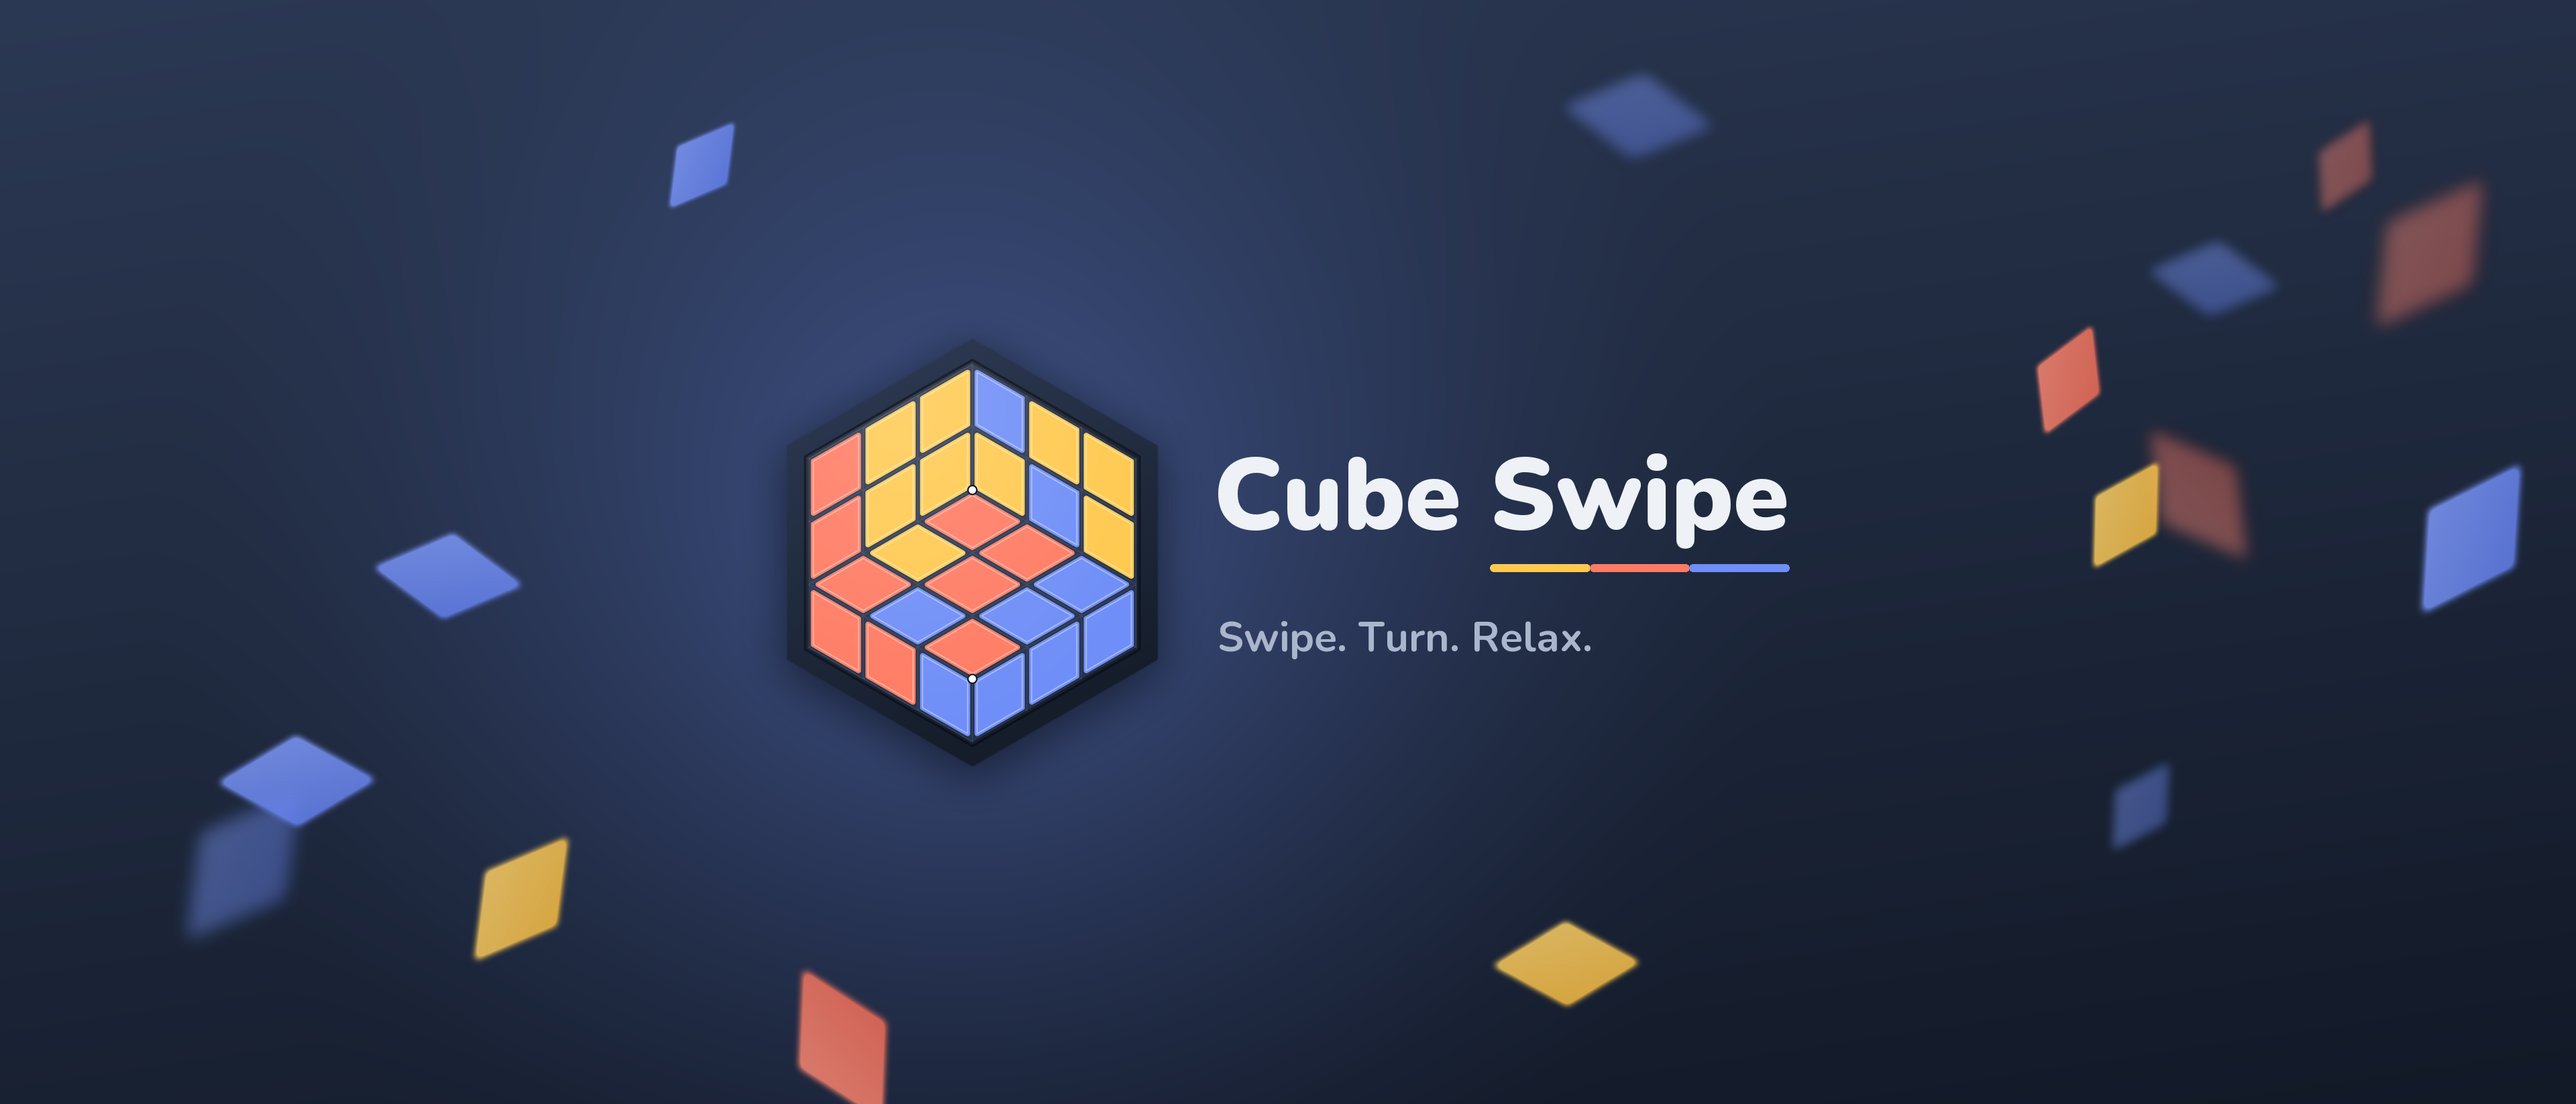
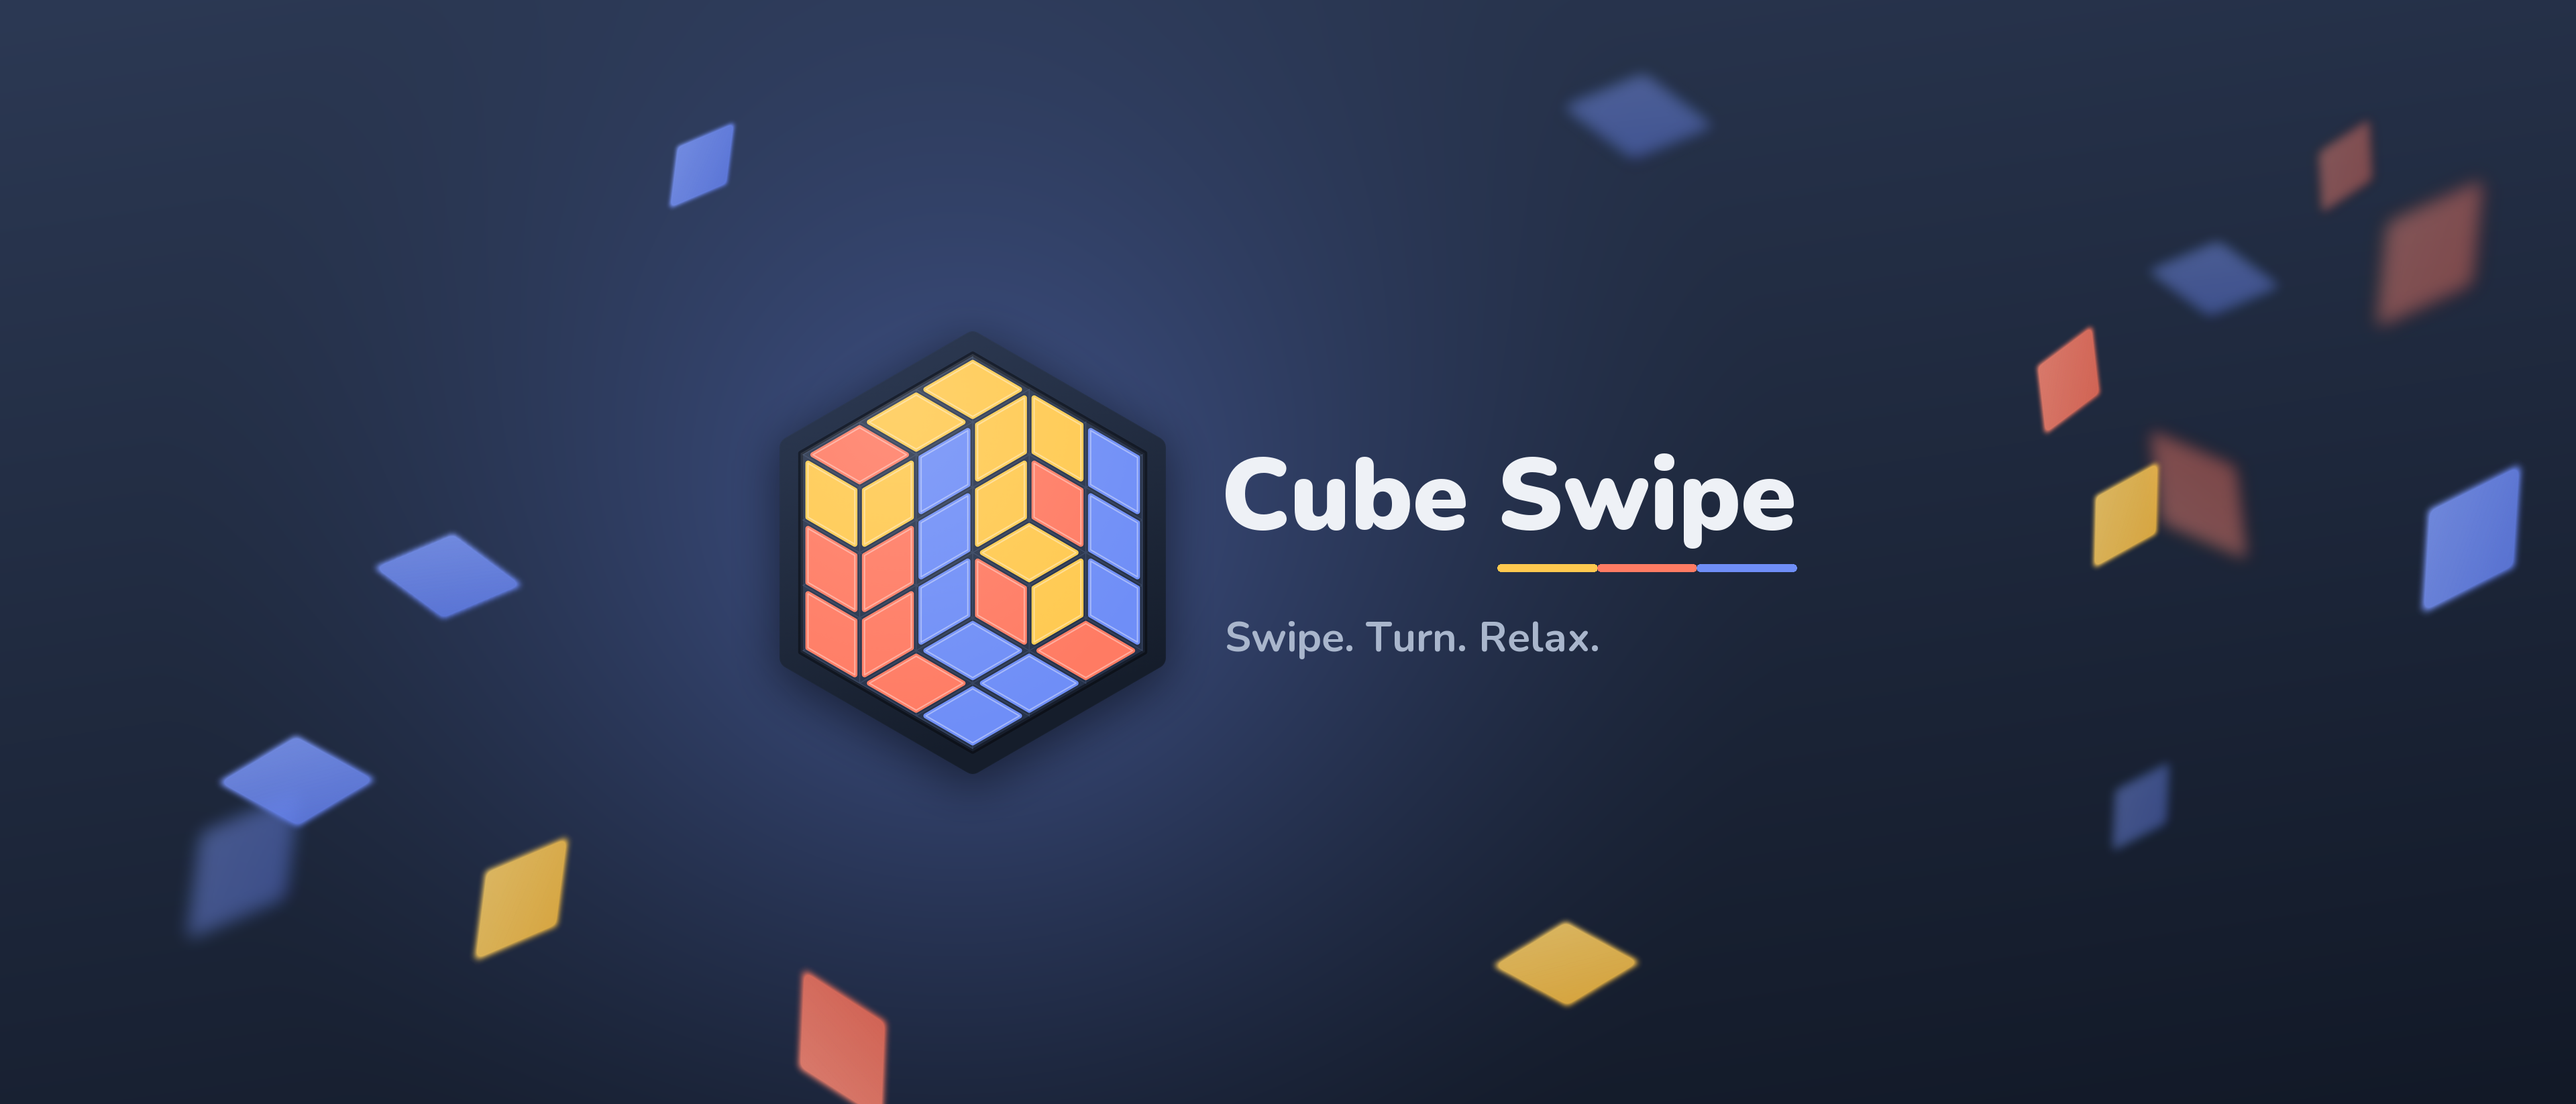
App Store creatives: HD board rendered from the game's SVG (no pivot dots or hint arrow)

Changed region(s): [[0.3125, 0.3098, 0.7188, 0.7126]]

diff --git a/app/store/tools/render-board.js b/app/store/tools/render-board.js
@@ -1,0 +1,65 @@
+// Renderiza el tablero 3x3x3 del juego en alta resolución (PNG con fondo transparente),
+// sin los puntos de giro ni la pista. Uso: node render-board.js <salida-dir>
+const puppeteer = require("puppeteer-core");
+const path = require("path");
+const out = process.argv[2];
+
+(async () => {
+  const browser = await puppeteer.launch({
+    executablePath: "/Applications/Google Chrome.app/Contents/MacOS/Google Chrome",
+    headless: true,
+  });
+  const page = await browser.newPage();
+  await page.emulateMediaFeatures([{ name: "prefers-color-scheme", value: "dark" }]);
+  await page.setViewport({ width: 390, height: 844, deviceScaleFactor: 7, isMobile: true, hasTouch: true });
+  await page.evaluateOnNewDocument(() => {
+    try { sessionStorage.setItem("propp-skip-intro", "home"); } catch (e) {}
+    try { localStorage.setItem("propp-settings-v1", JSON.stringify({ lang: "en", theme: "dark", vibe: true, intro: false })); } catch (e) {}
+  });
+  await page.goto("http://localhost:8792/index.html", { waitUntil: "load" });
+  await new Promise((r) => setTimeout(r, 1500));
+
+  const clickText = (re) => page.evaluate((src) => {
+    const rx = new RegExp(src);
+    const b = [...document.querySelectorAll("button")].find((x) => rx.test(x.textContent) && x.offsetParent !== null);
+    if (b) b.click();
+    return !!b;
+  }, re.source);
+
+  for (let i = 0; i < 2; i++) {
+    if (i === 0) {
+      console.log("free play", await clickText(/^\s*Free play/));
+      await new Promise((r) => setTimeout(r, 700));
+      console.log("3x3", await clickText(/^\s*3×3×3\s*$/));
+      await new Promise((r) => setTimeout(r, 300));
+      console.log("medium", await clickText(/^\s*Medium/));
+    } else {
+      console.log("new", await clickText(/^\s*\+?\s*New\s*$/));
+      await new Promise((r) => setTimeout(r, 700));
+      const again = await clickText(/^\s*Medium/);
+      console.log("medium again", again);
+    }
+    await new Promise((r) => setTimeout(r, 3500));
+    const ok = await page.evaluate(() => {
+      const b = document.getElementById("board");
+      if (!b) return "no board";
+      ["dots", "hits", "hint", "hlg", "lift"].forEach((id) => { const g = b.querySelector("#" + id); if (g) g.style.display = "none"; });
+      document.documentElement.style.background = "transparent";
+      document.body.style.background = "transparent";
+      document.querySelectorAll("body *").forEach((n) => { if (!n.contains(b) && !b.contains(n)) n.style.visibility = "hidden"; });
+      let p = b; while (p) { if (p.style) { p.style.background = "transparent"; p.style.visibility = "visible"; } p = p.parentElement; }
+      b.querySelectorAll("*").forEach((n) => (n.style.visibility = "visible"));
+      return b.querySelectorAll("#tiles > *").length;
+    });
+    console.log("tiles", ok);
+    const el = await page.$("#board");
+    await el.screenshot({ path: path.join(out, `board-${i + 1}.png`), omitBackground: true });
+    // regresar la interfaz a visible para el siguiente
+    await page.evaluate(() => {
+      const b = document.getElementById("board");
+      document.querySelectorAll("body *").forEach((n) => (n.style.visibility = ""));
+      ["dots", "hits", "hint", "hlg", "lift"].forEach((id) => { const g = b.querySelector("#" + id); if (g) g.style.display = ""; });
+    });
+  }
+  await browser.close();
+})();

diff --git a/app/store/make_creatives.py b/app/store/make_creatives.py
@@ -46,23 +46,11 @@ def background(W, H, glow_xy):
 
 
 def board(src, height):
-    """Recorta el tablero (bandeja hexagonal) de una captura del simulador y lo escala."""
+    """Tablero 3x3x3 del juego en alta resolución (renderizado del SVG real del juego con Chrome,
+    sin puntos de giro ni pistas, fondo transparente) escalado a la altura pedida."""
     im = Image.open(os.path.join(HERE, "raw", src)).convert("RGBA")
-    cx, top, bot = 603, 654, 1890  # bandeja medida en la captura de 1206 x 2622
-    h = bot - top
-    w = h * math.sqrt(3) / 2
-    box = (round(cx - w / 2) - 4, top - 4, round(cx + w / 2) + 4, bot + 4)
-    crop = im.crop(box)
-    cw, ch = crop.size
-    # máscara hexagonal (punta arriba) con esquinas suaves
-    ss = 4
-    m = Image.new("L", (cw * ss, ch * ss), 0)
-    pts = [(cw / 2, 4), (cw - 4, 4 + h / 4), (cw - 4, 4 + 3 * h / 4), (cw / 2, ch - 4), (4, 4 + 3 * h / 4), (4, 4 + h / 4)]
-    ImageDraw.Draw(m).polygon([(x * ss, y * ss) for x, y in pts], fill=255)
-    m = m.filter(ImageFilter.GaussianBlur(10)).point(lambda v: 255 if v > 128 else int(v * 2)).resize((cw, ch), Image.LANCZOS)
-    crop.putalpha(m)
-    k = height / ch
-    return crop.resize((round(cw * k), round(ch * k)), Image.LANCZOS)
+    k = height / im.height
+    return im.resize((round(im.width * k), round(im.height * k)), Image.LANCZOS)
 
 
 def rhombus(kind, size, angle):
@@ -170,8 +158,8 @@ def compose(W, H, safe, board_src, board_h, title_size, tag_size, tagline, seed,
 os.makedirs(os.path.join(HERE, "creatives"), exist_ok=True)
 for lang, t in TEXT.items():
     # Header 3840 x 1646 · zona segura 1646 x 661 en (1097, 493)
-    compose(3840, 1646, (1097, 493, 1097 + 1646, 493 + 661), "02-play-dark.png", 640, 150, 62, t["header"],
+    compose(3840, 1646, (1097, 493, 1097 + 1646, 493 + 661), "board-hd-2.png", 660, 150, 62, t["header"],
             seed=7, rh_range=(150, 300), out=os.path.join(HERE, "creatives", f"header-3840x1646-{lang}.png"))
     # Search Results 3840 x 2560 · zona segura 2168 x 1030 en (836, 765)
-    compose(3840, 2560, (836, 765, 836 + 2168, 765 + 1030), "03-hint-dark-es.png" if lang == "es" else "03-hint-dark.png", 1000, 196, 84, t["search"],
+    compose(3840, 2560, (836, 765, 836 + 2168, 765 + 1030), "board-hd-1.png", 1030, 196, 84, t["search"],
             seed=11, rh_range=(200, 380), out=os.path.join(HERE, "creatives", f"search-3840x2560-{lang}.png"))
